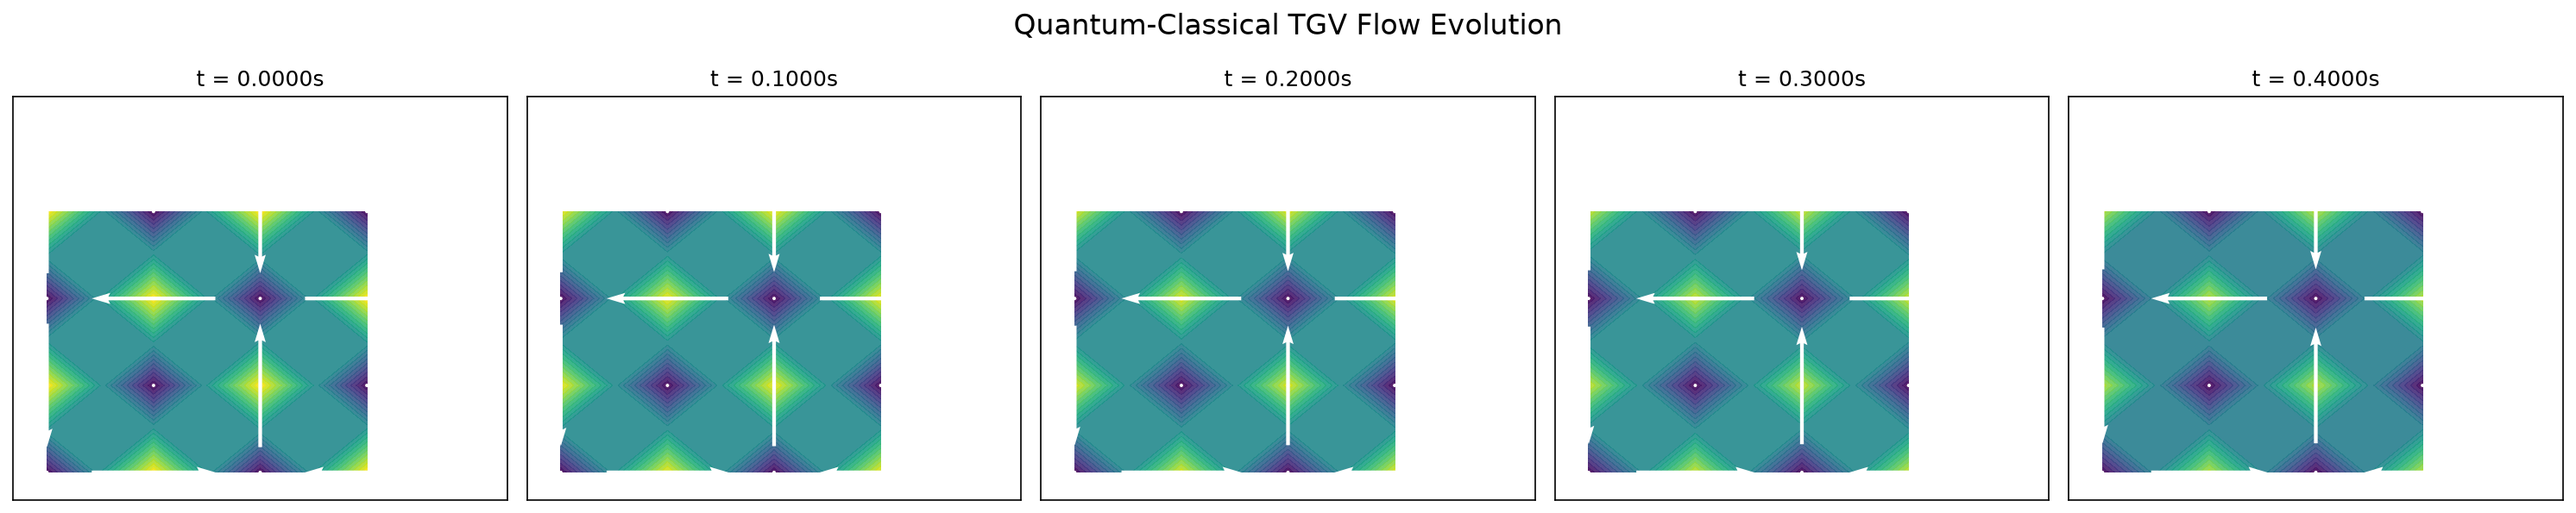
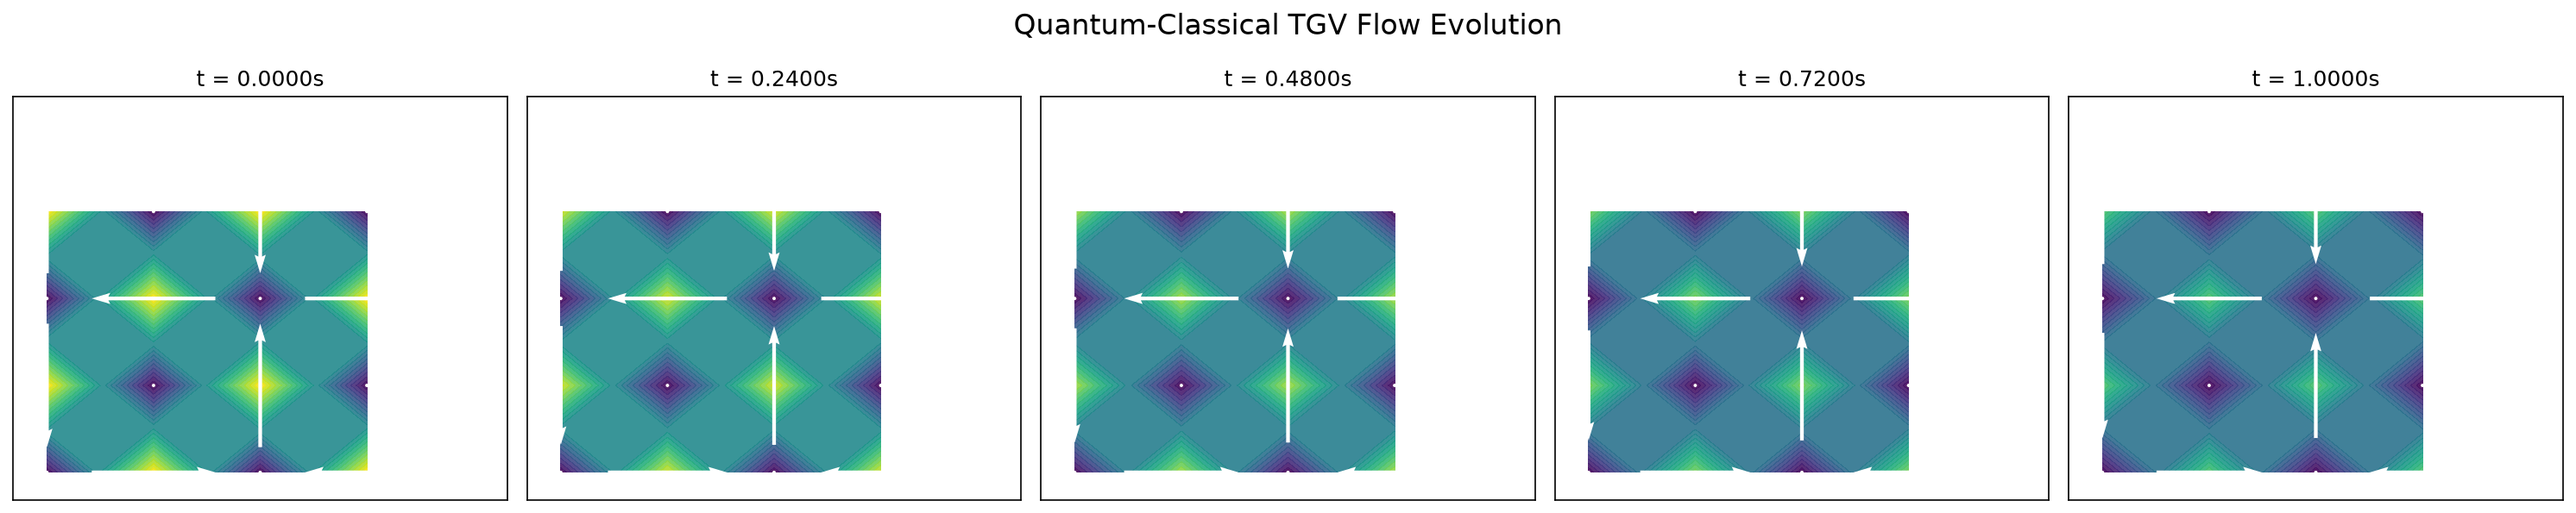
changed time step and step size for paraview

diff --git a/Quantum_Implementation/run_vqls_tgv.py b/Quantum_Implementation/run_vqls_tgv.py
@@ -58,8 +58,8 @@ def main():
     nx, ny = 4, 4
     L = 2 * np.pi
     nu = 0.1
-    dt = 0.1
-    num_steps = 4
+    dt = 0.04
+    num_steps = 25
 
     # ============================================================
     # 2. Configuration & Secure Credentials (via Environment Variable)
@@ -221,24 +221,29 @@ def main():
         y_coords = np.linspace(0, L, ny, endpoint=False)
         X, Y = np.meshgrid(x_coords, y_coords)
         
-        num_plots = len(time_history)
+        # Select representative snapshots for the evolution plot (up to 5 frames)
+        if len(time_history) > 6:
+            plot_indices = list(np.linspace(0, len(time_history) - 1, 5, dtype=int))
+        else:
+            plot_indices = list(range(len(time_history)))
+        num_subplots = len(plot_indices)
         
         # --- Plot 1: Flow Evolution (Row of Subplots) ---
-        fig, axes = plt.subplots(1, num_plots, figsize=(4 * num_plots, 4))
+        fig, axes = plt.subplots(1, num_subplots, figsize=(4 * num_subplots, 4))
         fig.suptitle("Quantum-Classical TGV Flow Evolution", fontsize=16)
         
         # Find global max kinetic energy for consistent color scale
         max_ke = 0.5 * np.max(u_history[0]**2 + v_history[0]**2)
         
-        for i in range(num_plots):
-            ax = axes[i] if num_plots > 1 else axes
-            U = u_history[i].reshape((ny, nx))
-            V = v_history[i].reshape((ny, nx))
+        for idx, step_idx in enumerate(plot_indices):
+            ax = axes[idx] if num_subplots > 1 else axes
+            U = u_history[step_idx].reshape((ny, nx))
+            V = v_history[step_idx].reshape((ny, nx))
             KE_field = 0.5 * (U**2 + V**2)
             
             contour = ax.contourf(X, Y, KE_field, levels=20, cmap='viridis', alpha=0.9, vmin=0.0, vmax=max_ke)
             ax.quiver(X, Y, U, V, color='white', pivot='mid', scale=4.0)
-            ax.set_title(f"t = {time_history[i]:.4f}s")
+            ax.set_title(f"t = {time_history[step_idx]:.4f}s")
             ax.set_xlim(-0.5, L + 0.5)
             ax.set_ylim(-0.5, L + 0.5)
             ax.set_xticks([])
